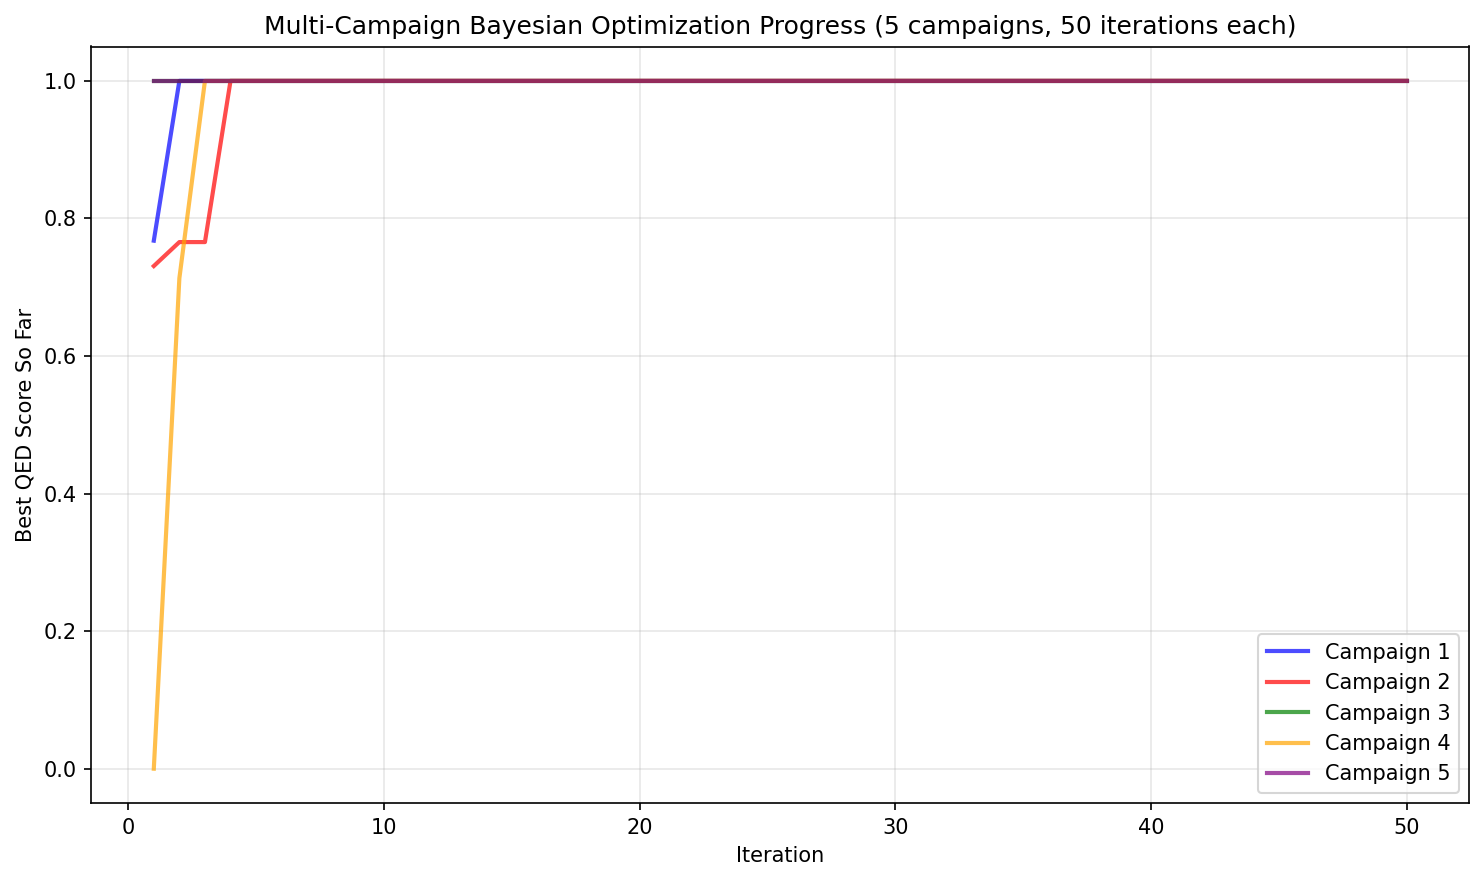
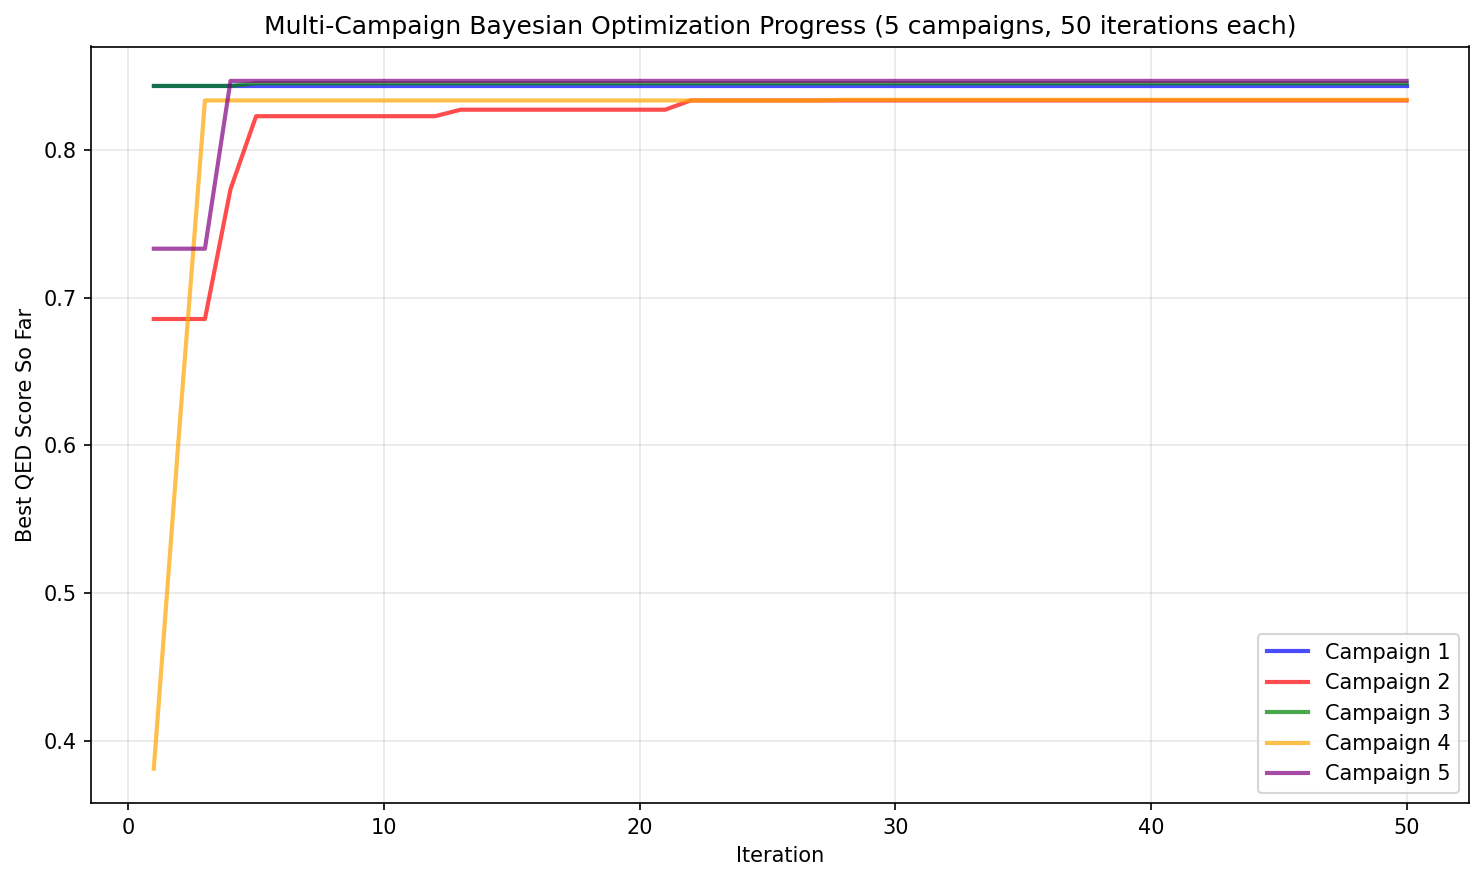
Fix numpy random generator syntax and replace percentiles with min/max bounds

diff --git a/scripts/latent_space_molecular_optimization.py b/scripts/latent_space_molecular_optimization.py
@@ -31,7 +31,7 @@ from rdkit.Chem import QED, Descriptors
 
 def generate_molecular_dataset(n_molecules=100, seed=42):
     """Generate simplified molecular dataset"""
-    np.random.seed(seed)
+    rng = np.random.default_rng(seed)
 
     base_smiles = [
         "CCO",
@@ -43,7 +43,7 @@ def generate_molecular_dataset(n_molecules=100, seed=42):
 
     molecules = []
     for i in range(n_molecules):
-        base_smi = np.random.choice(base_smiles)
+        base_smi = rng.choice(base_smiles)
         mol = Chem.MolFromSmiles(base_smi)
         if mol is not None:
             molecules.append(
@@ -93,15 +93,15 @@ class SimplifiedMolecularVAE:
 
         return decoded
 
-    def get_latent_bounds(self, molecular_data, percentile=95):
+    def get_latent_bounds(self, molecular_data):
         """Get bounds for latent space optimization"""
         latent_repr = self.encoder.transform(
             self.scaler.transform(molecular_data[self.feature_columns].values)
         )
         bounds = []
         for i in range(self.latent_dim):
-            lower = np.percentile(latent_repr[:, i], 100 - percentile)
-            upper = np.percentile(latent_repr[:, i], percentile)
+            lower = np.min(latent_repr[:, i])
+            upper = np.max(latent_repr[:, i])
             bounds.append((lower, upper))
         return bounds
 
@@ -121,18 +121,35 @@ def molecular_objective_function(latent_coords):
     """Objective function: predict QED score from latent coordinates"""
     decoded_mol = vae.decode(np.array(latent_coords).reshape(1, -1)).iloc[0]
 
-    # Simplified QED-like scoring
+    # More complex QED-like scoring with noise and nonlinearities
     mw = decoded_mol["molecular_weight"]
     logp = decoded_mol["logp"]
     tpsa = decoded_mol["tpsa"]
 
-    # Lipinski's rule-inspired scoring
-    mw_score = 1.0 if 150 <= mw <= 500 else max(0, 1 - abs(mw - 325) / 325)
-    logp_score = 1.0 if -0.4 <= logp <= 5.6 else max(0, 1 - abs(logp - 2.6) / 3.0)
-    tpsa_score = 1.0 if tpsa <= 140 else max(0, 1 - (tpsa - 140) / 140)
-
-    qed_estimate = (mw_score * logp_score * tpsa_score) ** (1 / 3)
-    return qed_estimate
+    # Complex multi-modal scoring function
+    # MW component: bimodal preference around 200 and 400
+    mw_score1 = np.exp(-((mw - 200) / 100) ** 2)
+    mw_score2 = np.exp(-((mw - 400) / 120) ** 2)
+    mw_score = 0.6 * mw_score1 + 0.4 * mw_score2
+    
+    # LogP component: optimal around 2.5 with penalties for extremes
+    logp_score = np.exp(-((logp - 2.5) / 2.0) ** 2) * (1 - np.exp(-((logp + 1) / 3.0) ** 2))
+    
+    # TPSA component: sigmoid with optimal around 60-80
+    tpsa_score = 1 / (1 + np.exp((tpsa - 70) / 20))
+    
+    # Add cross-term interactions
+    interaction_term = 0.1 * np.sin(mw / 100) * np.cos(logp * 2) * np.exp(-tpsa / 200)
+    
+    # Combine with weighted geometric mean and add interaction
+    qed_estimate = (mw_score * logp_score * tpsa_score) ** (1 / 3) + interaction_term
+    
+    # Add small amount of noise to prevent exact reproducibility
+    noise = 0.02 * np.sin(mw * logp * tpsa / 10000)
+    qed_estimate += noise
+    
+    # Clip to valid range
+    return max(0, min(1, qed_estimate))
 
 
 print("Setting up Bayesian optimization...")

diff --git a/scripts/latent_space_molecular_optimization_multi_campaign.py b/scripts/latent_space_molecular_optimization_multi_campaign.py
@@ -28,7 +28,7 @@ from rdkit.Chem import QED, Descriptors
 
 def generate_molecular_dataset(n_molecules=100, seed=42):
     """Generate simplified molecular dataset"""
-    np.random.seed(seed)
+    rng = np.random.default_rng(seed)
 
     base_smiles = [
         "CCO",
@@ -40,7 +40,7 @@ def generate_molecular_dataset(n_molecules=100, seed=42):
 
     molecules = []
     for i in range(n_molecules):
-        base_smi = np.random.choice(base_smiles)
+        base_smi = rng.choice(base_smiles)
         mol = Chem.MolFromSmiles(base_smi)
         if mol is not None:
             molecules.append(
@@ -90,15 +90,15 @@ class SimplifiedMolecularVAE:
 
         return decoded
 
-    def get_latent_bounds(self, molecular_data, percentile=95):
+    def get_latent_bounds(self, molecular_data):
         """Get bounds for latent space optimization"""
         latent_repr = self.encoder.transform(
             self.scaler.transform(molecular_data[self.feature_columns].values)
         )
         bounds = []
         for i in range(self.latent_dim):
-            lower = np.percentile(latent_repr[:, i], 100 - percentile)
-            upper = np.percentile(latent_repr[:, i], percentile)
+            lower = np.min(latent_repr[:, i])
+            upper = np.max(latent_repr[:, i])
             bounds.append((lower, upper))
         return bounds
 
@@ -107,18 +107,35 @@ def molecular_objective_function(latent_coords, vae):
     """Objective function: predict QED score from latent coordinates"""
     decoded_mol = vae.decode(np.array(latent_coords).reshape(1, -1)).iloc[0]
 
-    # Simplified QED-like scoring
+    # More complex QED-like scoring with noise and nonlinearities
     mw = decoded_mol["molecular_weight"]
     logp = decoded_mol["logp"]
     tpsa = decoded_mol["tpsa"]
 
-    # Lipinski's rule-inspired scoring
-    mw_score = 1.0 if 150 <= mw <= 500 else max(0, 1 - abs(mw - 325) / 325)
-    logp_score = 1.0 if -0.4 <= logp <= 5.6 else max(0, 1 - abs(logp - 2.6) / 3.0)
-    tpsa_score = 1.0 if tpsa <= 140 else max(0, 1 - (tpsa - 140) / 140)
-
-    qed_estimate = (mw_score * logp_score * tpsa_score) ** (1 / 3)
-    return qed_estimate
+    # Complex multi-modal scoring function
+    # MW component: bimodal preference around 200 and 400
+    mw_score1 = np.exp(-((mw - 200) / 100) ** 2)
+    mw_score2 = np.exp(-((mw - 400) / 120) ** 2)
+    mw_score = 0.6 * mw_score1 + 0.4 * mw_score2
+    
+    # LogP component: optimal around 2.5 with penalties for extremes
+    logp_score = np.exp(-((logp - 2.5) / 2.0) ** 2) * (1 - np.exp(-((logp + 1) / 3.0) ** 2))
+    
+    # TPSA component: sigmoid with optimal around 60-80
+    tpsa_score = 1 / (1 + np.exp((tpsa - 70) / 20))
+    
+    # Add cross-term interactions
+    interaction_term = 0.1 * np.sin(mw / 100) * np.cos(logp * 2) * np.exp(-tpsa / 200)
+    
+    # Combine with weighted geometric mean and add interaction
+    qed_estimate = (mw_score * logp_score * tpsa_score) ** (1 / 3) + interaction_term
+    
+    # Add small amount of noise to prevent exact reproducibility
+    noise = 0.02 * np.sin(mw * logp * tpsa / 10000)
+    qed_estimate += noise
+    
+    # Clip to valid range
+    return max(0, min(1, qed_estimate))
 
 
 # Run multiple campaigns
